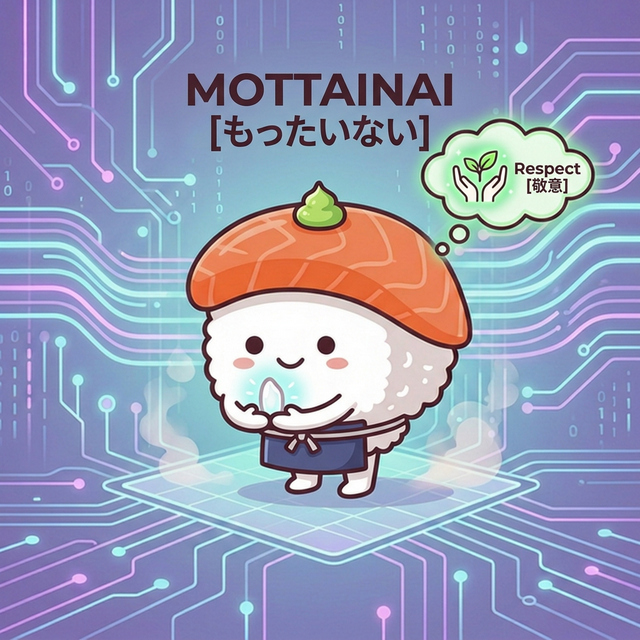
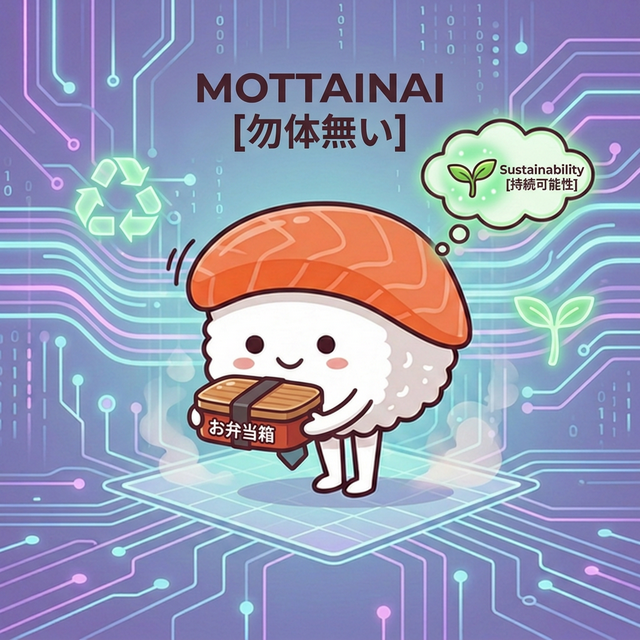
UI Overhaul & Assets: Sync Mottainai to the Cyber-Premium visual identity with dynamic holographic backgrounds and bento box

diff --git a/app/articles/[slug]/page.tsx b/app/articles/[slug]/page.tsx
@@ -116,15 +116,15 @@ Before taking the first bite, it is customary to say <ContextDecoder phrase="い
 This concept ties heavily back to *Mottainai* (the regret of waste). Because you have recognized the sacrifice required for the meal, it becomes culturally unacceptable to leave food unfinished. 
         `.trim();
     } else if (slug === 'mottainai') {
-        data.title = 'Mottainai: The Deep Respect for All Things [もったいない]';
+        data.title = 'Mottainai: The Deep Respect for All Things [勿体無い]';
         data.content = `
 At its core, "Mottainai" is often translated as "What a waste," but this captures only a fraction of its true spiritual depth. It is a philosophy of gratitude.
 
 ## The Philosophy of Value
 
-![Osushi-chan Mottainai Cyber Mode](/osushi-mottainai.png?v=1)
+![Osushi-chan Mottainai Cyber Mode](/osushi-mottainai.png?v=2)
 
-Rooted in Buddhist and Shinto animism, <ContextDecoder phrase="もったいない" meaning="A sense of regret concerning waste" context="Used when something's intrinsic value is not properly utilized">Mottainai</ContextDecoder> acknowledges that every object—from a single grain of rice to a piece of paper—contains a spirit or was created through immense effort and sacrifice.
+Rooted in Buddhist and Shinto animism, <ContextDecoder phrase="勿体無い" meaning="A sense of regret concerning waste" context="Used when something's intrinsic value is not properly utilized">Mottainai</ContextDecoder> acknowledges that every object—from a single grain of rice to a piece of paper—contains a spirit or was created through immense effort and sacrifice.
 
 ## How It Manifests
 

diff --git a/app/page.tsx b/app/page.tsx
@@ -38,7 +38,7 @@ export default async function Home() {
     'the-magic-word-otsukaresama': 'Otsukaresama: More Than "Good Job" [お疲れ様です]',
     'the-art-of-meishi-more-than-just-a-business-card': 'Meishi: The Soul of a Business Card [名刺]',
     'itadakimasu-meaning-japanese-gratitude': 'Itadakimasu: The Spiritual Gratitude Hidden in Every Japanese Meal [いただきます]',
-    'mottainai': 'Mottainai: The Deep Respect for All Things [もったいない]'
+    'mottainai': 'Mottainai: The Deep Respect for All Things [勿体無い]'
   };
 
   const articles = articlesData?.map(article => ({
